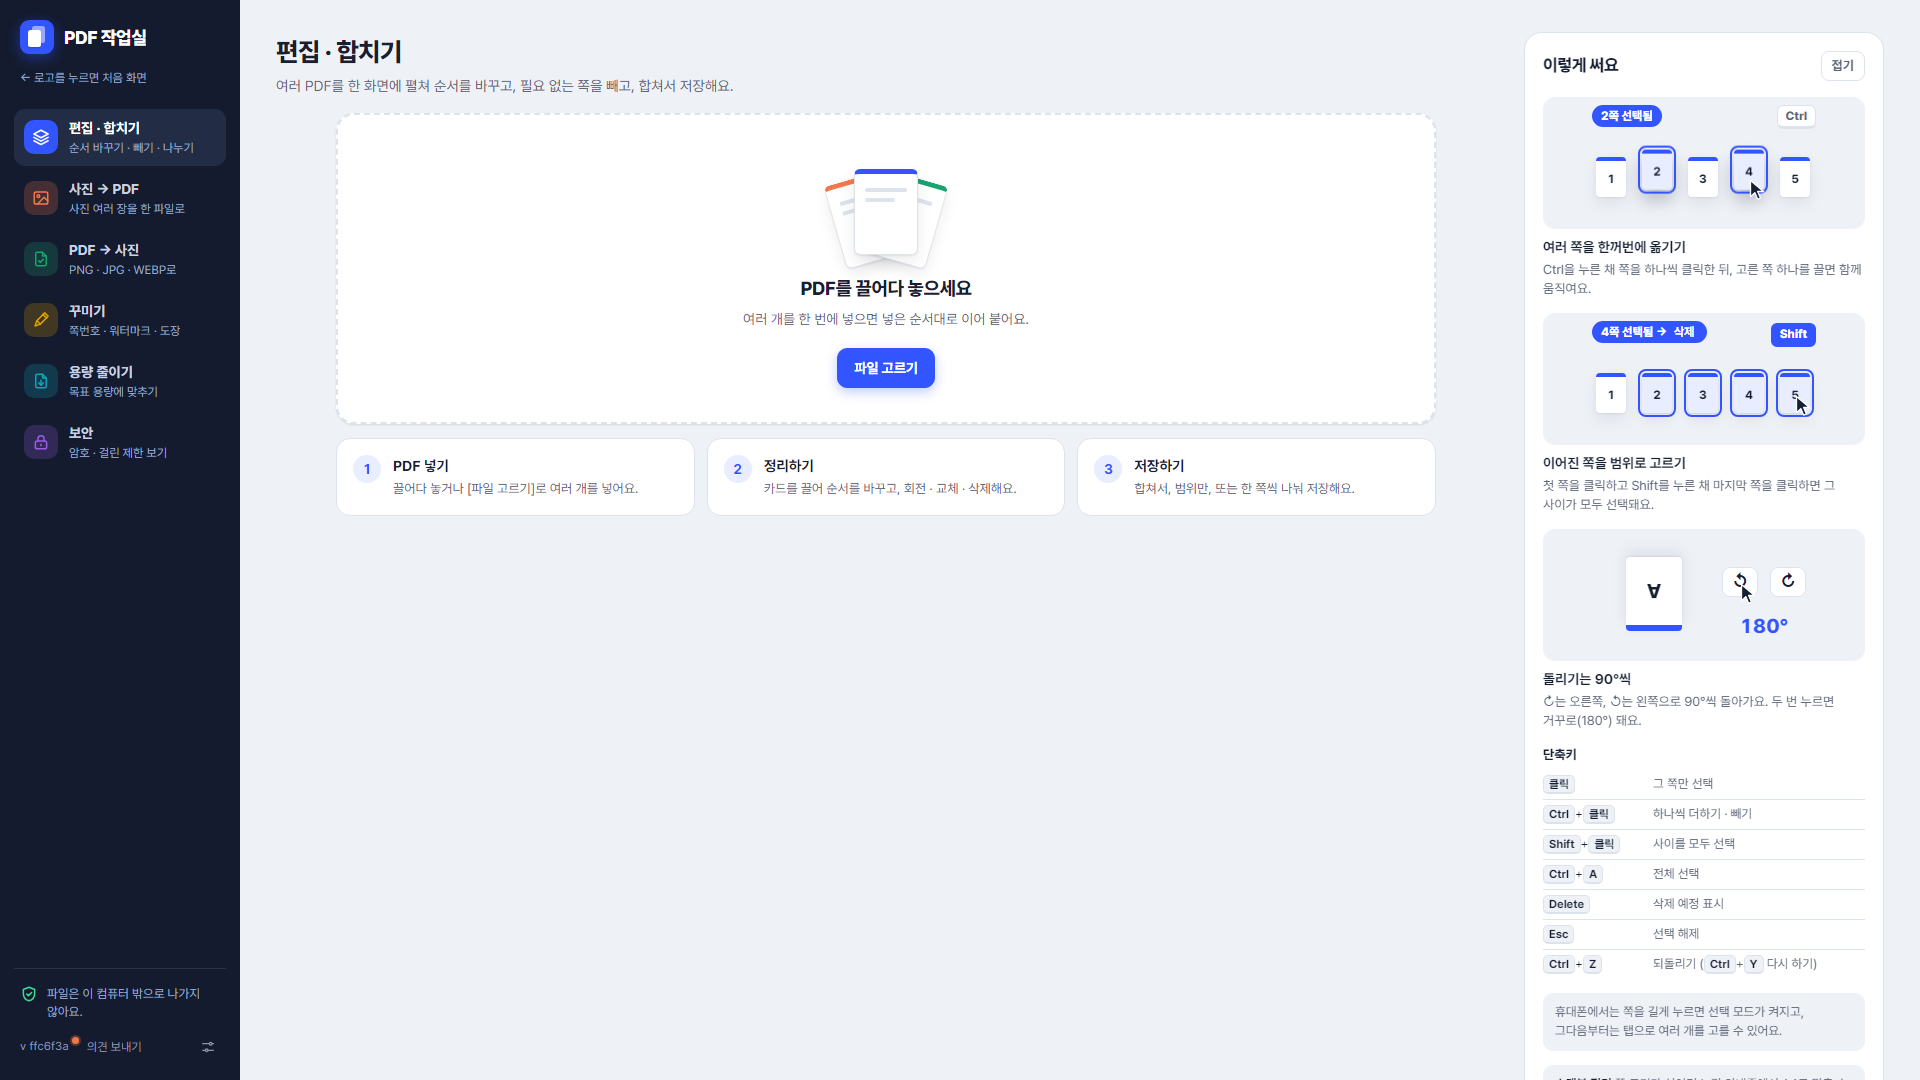
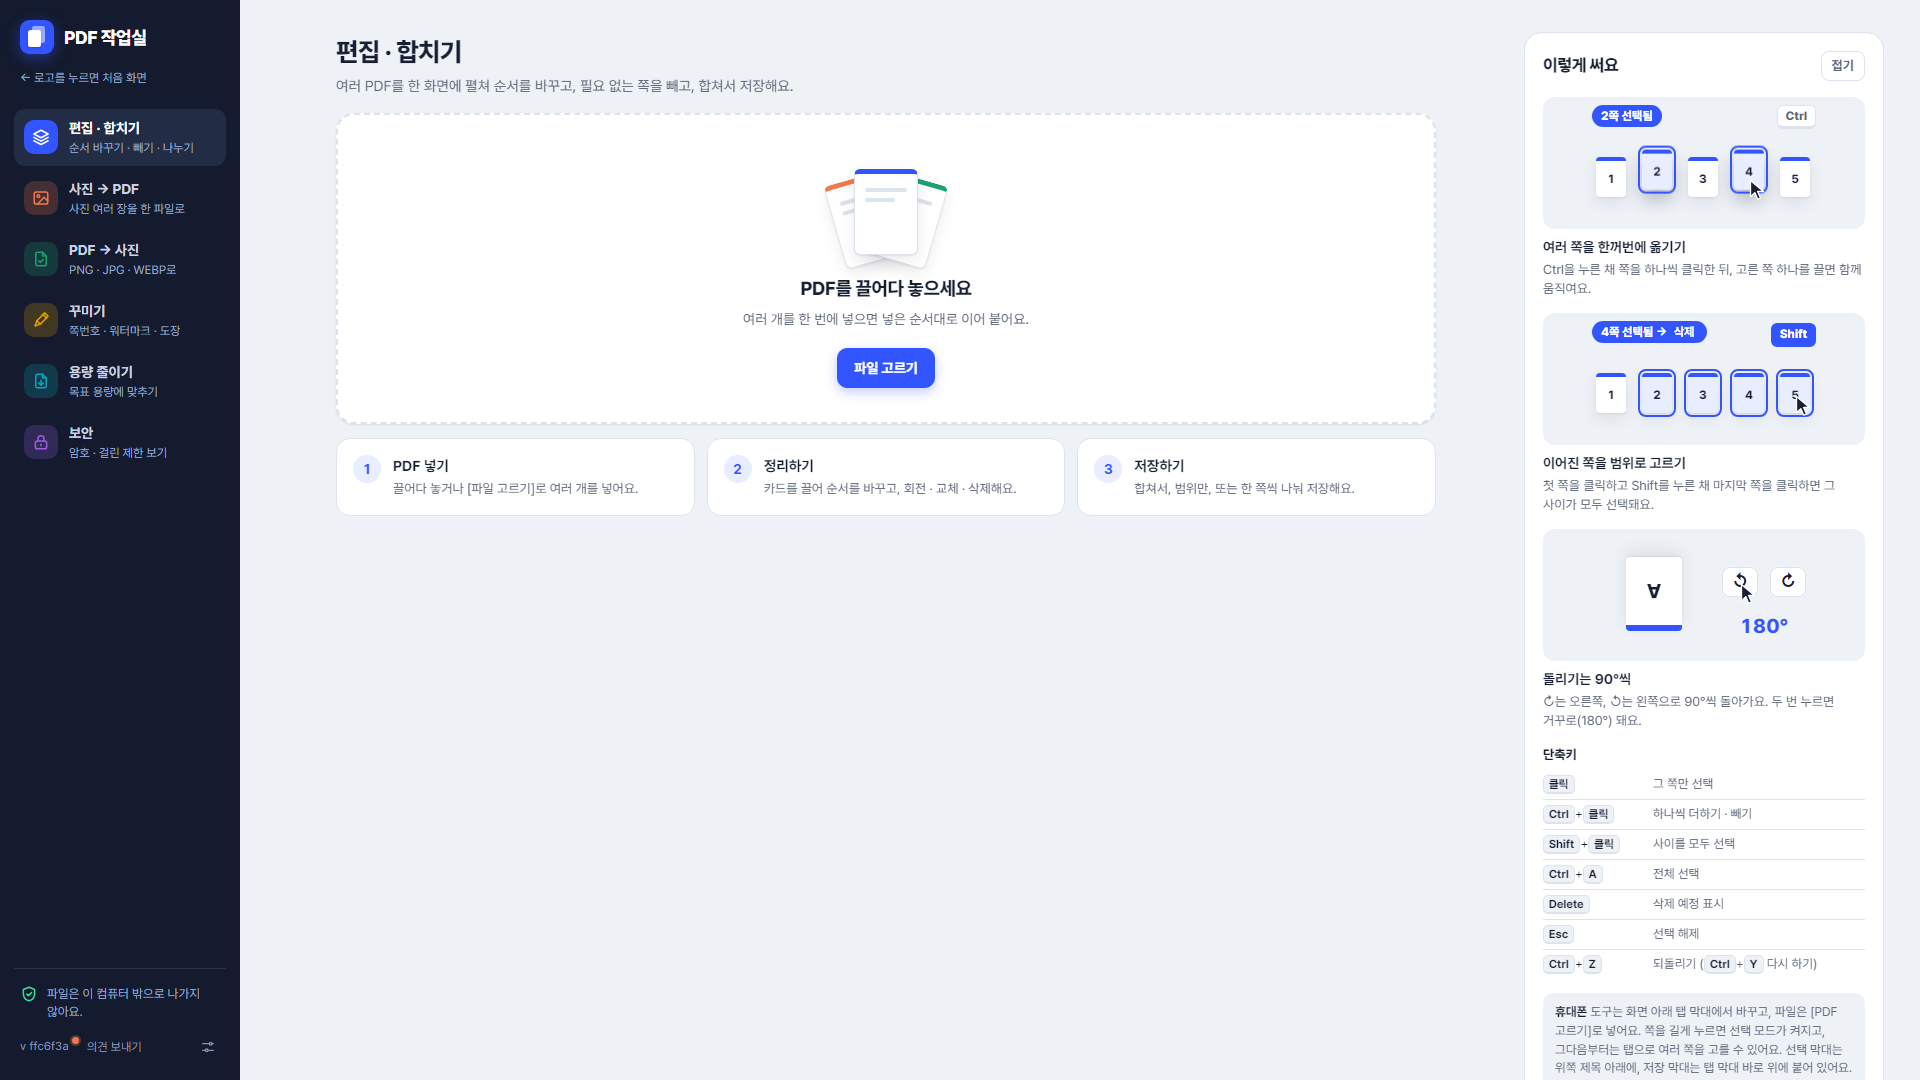
fix: 모든 도구 빈 화면 가운데 정렬(컴퓨터)

diff --git a/public/index.html b/public/index.html
@@ -279,7 +279,7 @@
         </header>
         <input type="file" id="edit-input" accept="application/pdf,.pdf" multiple hidden>
 
-        <div class="empty" id="edit-empty">
+        <div class="empty narrow" id="edit-empty">
           <div class="drop-card" id="edit-drop">
             <div class="papers" aria-hidden="true"><i></i><i></i><i></i></div>
             <strong>PDF를 끌어다 놓으세요</strong>
@@ -464,7 +464,7 @@
         <input type="file" id="img-input" accept="image/*,.jpg,.jpeg,.png,.webp,.heic,.heif,.gif,.bmp,.avif" multiple hidden>
         <input type="file" id="img-camera" accept="image/*" capture="environment" multiple hidden>
 
-        <div class="empty" id="img-empty">
+        <div class="empty narrow" id="img-empty">
           <div class="drop-card" id="img-drop">
             <div class="papers" aria-hidden="true"><i></i><i></i><i></i></div>
             <strong>사진을 끌어다 놓으세요</strong>
@@ -514,7 +514,7 @@
         </header>
         <input type="file" id="p2i-input" accept="application/pdf,.pdf" hidden>
 
-        <div class="empty" id="p2i-empty">
+        <div class="empty narrow" id="p2i-empty">
           <div class="drop-card" id="p2i-drop">
             <div class="papers" aria-hidden="true"><i></i><i></i><i></i></div>
             <strong>PDF 하나를 끌어다 놓으세요</strong>
@@ -570,7 +570,7 @@
       </section>
 
       <!-- 암호 -->
-      <section class="panel" id="panel-security" role="tabpanel" aria-labelledby="tab-security" hidden>
+      <section class="panel narrow" id="panel-security" role="tabpanel" aria-labelledby="tab-security" hidden>
         <header class="tool-head with-guide">
           <div>
             <h1>보안</h1>
@@ -652,7 +652,7 @@
       </section>
 
       <!-- 꾸미기 -->
-      <section class="panel" id="panel-decorate" role="tabpanel" aria-labelledby="tab-decorate" hidden>
+      <section class="panel narrow" id="panel-decorate" role="tabpanel" aria-labelledby="tab-decorate" hidden>
         <header class="tool-head with-guide">
           <div>
             <h1>꾸미기</h1>
@@ -693,7 +693,7 @@
       </section>
 
       <!-- 용량 줄이기 -->
-      <section class="panel" id="panel-compress" role="tabpanel" aria-labelledby="tab-compress" hidden>
+      <section class="panel narrow" id="panel-compress" role="tabpanel" aria-labelledby="tab-compress" hidden>
         <header class="tool-head with-guide">
           <div>
             <h1>용량 줄이기</h1>

diff --git a/public/style.css b/public/style.css
@@ -1856,7 +1856,6 @@ kbd {
 .busy-cancel { margin-top: 12px; }
 
 /* 파일 넣기 · 도구 6개 (400px: 아이콘 + 이름 2칸) */
-.panel#panel-compress, .panel#panel-decorate { max-width: 1180px; }
 
 /* ── 용량 줄이기: 한 칸 · 안내 · 잠김 ── */
 .cmp-step { margin-left: 6px; font-size: 12.5px; font-weight: 700; color: var(--muted); }
@@ -2175,8 +2174,30 @@ legend.sr-only { width: 1px !important; }
 }
 .img-card .rot-btn:hover { background: var(--accent); }
 
-/* 넓은 화면: 빈 화면 카드는 1100px로 가운데, 사용법 패널은 1600px 이상에서 360px */
-.empty { width: 100%; max-width: 1100px; margin-inline: auto; }
+/* 컴퓨터(821px 이상): 가운데 1100px 컨테이너 .narrow — 모든 도구가 같은 규칙.
+   - 파일 넣기 전 화면(.empty)과 그 위 제목, 목록 하나만 있는 도구(꾸미기 · 용량 줄이기 · 보안)는 패널째 1100px 가운데.
+   - 카드 그리드(편집 · 사진 → PDF · PDF → 사진)는 파일을 넣으면 가로로 꽉 채운다.
+   - 사용법 패널이 열리면 남은 폭 기준으로, 접히면(오른쪽 44px 막대) 전체 폭 기준으로 가운데 — 막대 + 틈(72px)의 절반만큼 오른쪽으로. */
+@media (min-width: 821px) {
+  .panel { max-width: none; }
+  .narrow, .tool-head:has(~ .narrow:not([hidden])) {
+    position: relative;
+    left: 0;
+    width: 100%;
+    max-width: 1100px;
+    margin-inline: auto;
+  }
+}
+@media (min-width: 1280px) {
+  .work-layout { transition: grid-template-columns .2s ease; }
+  .narrow, .tool-head:has(~ .narrow:not([hidden])) { transition: left .2s ease; }
+  .work-layout.guide-collapsed .narrow,
+  .work-layout.guide-collapsed .tool-head:has(~ .narrow:not([hidden])) { left: clamp(0px, calc((100% - 1100px) / 2), 36px); }
+}
+@media (min-width: 1280px) and (prefers-reduced-motion: reduce) {
+  .work-layout, .narrow, .tool-head { transition: none; }
+}
+/* 사용법 패널은 1600px 이상에서 360px */
 @media (min-width: 1600px) {
   .work-layout { grid-template-columns: minmax(0, 1fr) 360px; }
 }

diff --git a/README.md b/README.md
@@ -53,6 +53,10 @@
 ![저장 위치 안내](docs/screens/guide-download.png)
 ![1920px 빈 화면](docs/screens/wide-empty.png)
 
+1920px 넓은 화면에서는 여섯 도구 모두 파일 넣기 전 화면(제목 · 파일 넣기 상자 · 3단계)이 같은 1100px 컨테이너로 가운데에 놓입니다. 사용법 패널이 열려 있으면 남은 폭, 접혀 있으면 전체 폭 기준이고 접고 펼 때 0.2초 동안 옮겨 갑니다. 파일을 넣은 뒤 카드 그리드(편집 · 사진 → PDF · PDF → 사진)는 가로로 꽉 채우고, 목록 하나인 꾸미기 · 용량 줄이기 · 보안은 1100px 가운데를 유지합니다.
+
+<img src="docs/screens/wide-empty-img2pdf.png" alt="1920px 사진 → PDF 빈 화면" width="320"> <img src="docs/screens/wide-empty-pdf2img.png" alt="1920px PDF → 사진 빈 화면" width="320"> <img src="docs/screens/wide-empty-decorate.png" alt="1920px 꾸미기 빈 화면" width="320"> <img src="docs/screens/wide-empty-compress.png" alt="1920px 용량 줄이기 빈 화면" width="320"> <img src="docs/screens/wide-empty-security.png" alt="1920px 보안 빈 화면" width="320">
+
 ![설정하고 저장](docs/screens/save-dialog.png)
 
 **설정하고 저장…** — 쪽번호 · 워터마크 · 서명/도장 · 암호 · 용량 목표를 켜고 끄며 오른쪽 미리보기로 확인합니다.
